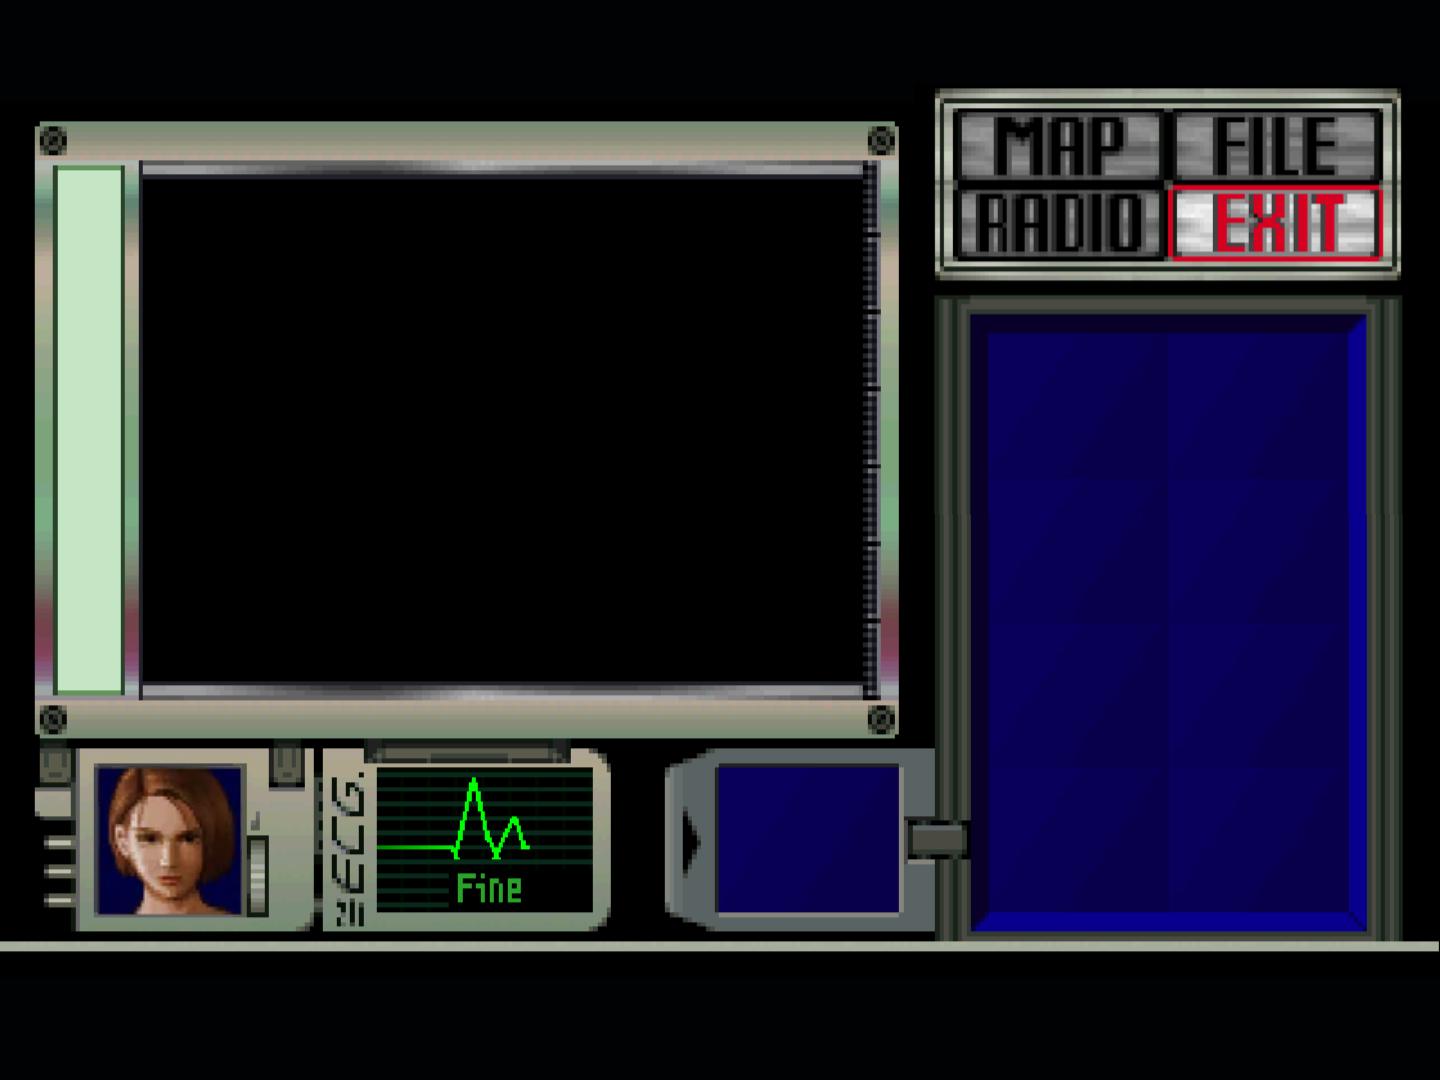
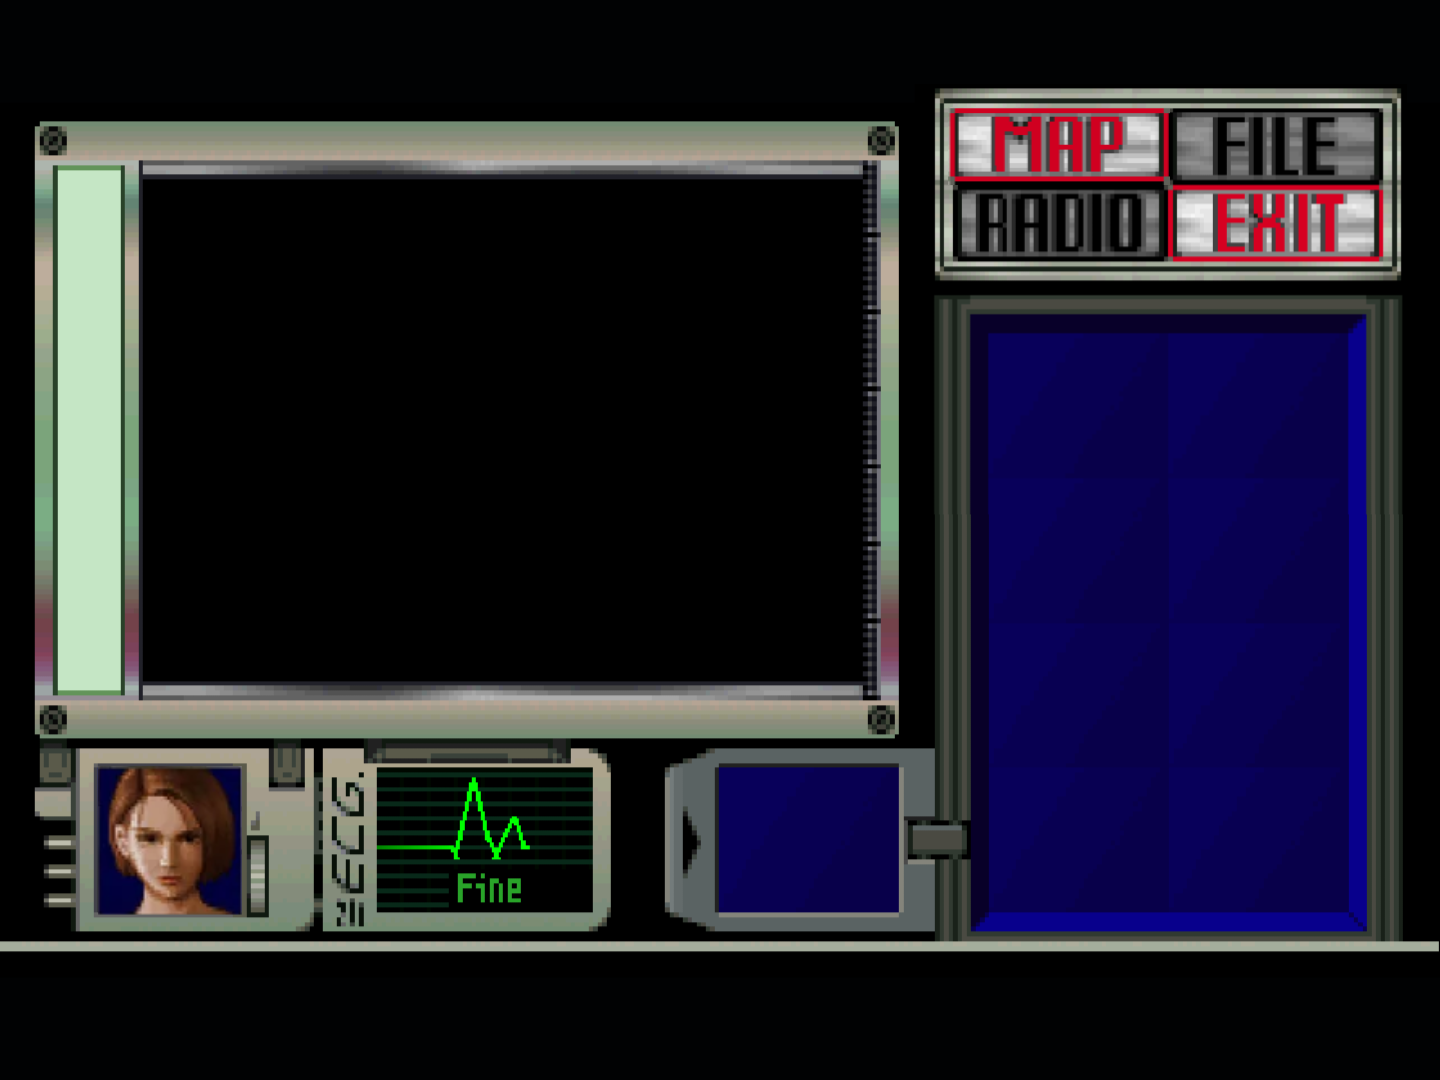
adição do mapa

Changed region(s): [[0.6562, 0.0917, 0.8125, 0.1833]]

diff --git a/Re1/src/view/PainelInventario.java b/Re1/src/view/PainelInventario.java
@@ -1,10 +1,11 @@
 package view;
-import javax.swing.*;
 
+import javax.swing.*;
+import java.awt.*;
+
+import controller.MapaController;
 import controller.InventarioController;
 import model.Personagem;
-
-import java.awt.*;
 
 // usei o GridBag pra fazer o "Position Layout" do inventario e ele se organizar automatico
 // o Grid comum fica mudando o posicionamento sempre q tu add ou retira um item, ruinzão
@@ -14,7 +15,7 @@ public class PainelInventario extends JPanel {
     private static PainelInventario instancia;
     private Image imagemFundo;
     private JPanel gridItens;
-    private InventarioController controller;    
+    private InventarioController controller;
 
     public PainelInventario() {
         instancia = this;
@@ -24,7 +25,7 @@ public class PainelInventario extends JPanel {
         String caminho = "/resources/imgs/inventario jill.png";
         if (Personagem.getChris()) {
             caminho = "/resources/imgs/inventario chris.png";
-        } 
+        }
 
         imagemFundo = new ImageIcon(getClass().getResource(caminho)).getImage();
 
@@ -33,6 +34,41 @@ public class PainelInventario extends JPanel {
 
         controller = new InventarioController(gridItens);
         controller.criarSlotsFixos();
+
+        JPanel painelBotoes = new JPanel(null);
+        painelBotoes.setOpaque(false);
+        painelBotoes.setBounds(0, 0, 1000, 200);
+
+        JButton fechaInventario = new JButton();
+        fechaInventario.setBounds(635, 95, 117, 40);
+
+        fechaInventario.setOpaque(false);
+        fechaInventario.setContentAreaFilled(false);
+        fechaInventario.setBorderPainted(false);
+        fechaInventario.setFocusPainted(false);
+
+        JButton abreMapa = new JButton();
+        abreMapa.setBounds(525, 55, 110, 40);
+
+        abreMapa.setOpaque(false);
+        abreMapa.setContentAreaFilled(false);
+        abreMapa.setBorderPainted(false);
+        abreMapa.setFocusPainted(false);
+
+        painelBotoes.add(fechaInventario);
+        painelBotoes.add(abreMapa);
+
+        abreMapa.addActionListener(e -> {
+            MapaController.exibirMapa(this);
+        });
+
+        fechaInventario.addActionListener(e -> {
+            JDialog dialog = (JDialog) SwingUtilities.getWindowAncestor(this);
+            dialog.dispose();
+        });
+
+        setLayout(null);
+        add(painelBotoes);
 
         GridBagConstraints gbc = new GridBagConstraints();
         gbc.gridx = 0;

diff --git a/Re1/src/controller/MapaController.java b/Re1/src/controller/MapaController.java
@@ -1,0 +1,21 @@
+package controller;
+
+import javax.swing.*;
+
+import view.PainelMapa;
+
+import java.awt.*;
+
+public class MapaController extends JPanel {
+
+    public static void exibirMapa(JPanel parent) {
+        Window janela = SwingUtilities.getWindowAncestor(parent);
+        JDialog popMapa = new JDialog(janela, "Mapa", Dialog.ModalityType.APPLICATION_MODAL);
+        popMapa.setSize(800, 600);
+        popMapa.setLocationRelativeTo(parent);
+
+        PainelMapa mapa = new PainelMapa();
+        popMapa.add(mapa);
+        popMapa.setVisible(true);
+    }
+}

diff --git a/Re1/src/view/PainelMapa.java b/Re1/src/view/PainelMapa.java
@@ -1,0 +1,23 @@
+package view;
+
+import javax.swing.*;
+import java.awt.*;
+
+public class PainelMapa extends JPanel{
+
+    private Image imagemFundo;
+    
+    public PainelMapa() {
+        setOpaque(false);
+
+        imagemFundo = new ImageIcon(getClass().getResource("/resources/imgs/mapa.png")).getImage();
+    }
+
+    @Override
+    protected void paintComponent(Graphics g) {
+        super.paintComponent(g);
+        if (imagemFundo != null) {
+            g.drawImage(imagemFundo, 0, 0, getWidth(), getHeight(), this);
+        }
+    }
+}
